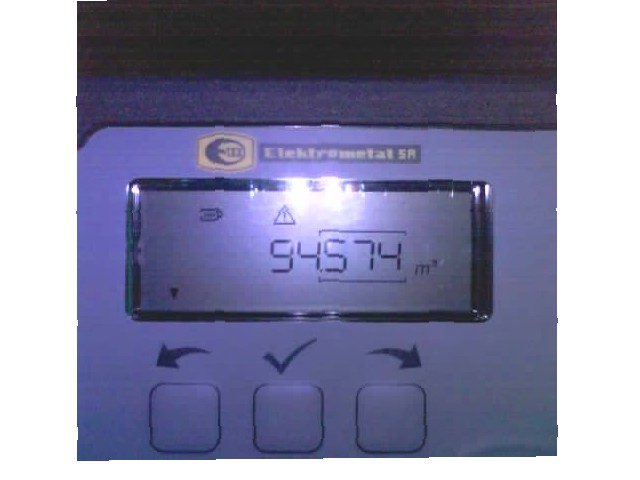
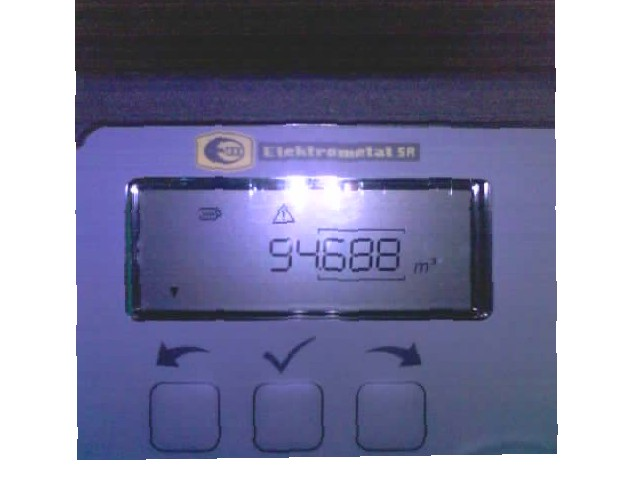
Automatyczna aktualizacja strony i danych

diff --git a/index.html b/index.html
@@ -35,11 +35,11 @@
 <body>
     <div class="container">
         <h1>Bieżący Stan Licznika</h1>
-        <div class="status">Ostatnia aktualizacja danych:<br><span class="timestamp">2026-10-27 05:48:06</span></div>
+        <div class="status">Ostatnia aktualizacja danych:<br><span class="timestamp">2026-10-27 05:53:33</span></div>
         <div class="odczyt">93498 m³</div>
         <div class="uwaga">Ostatni odczyt się nie powiódł, wyświetlana jest poprzednia poprawna wartość.</div>
         <h3>Aktualne zdjęcie z gazomierza:</h3>
-        <img src="img_tmp/alg.jpg?t=1793076486" alt="Zdjęcie licznika">
+        <img src="img_tmp/alg.jpg?t=1793076813" alt="Zdjęcie licznika">
     </div>
 </body>
 </html>
